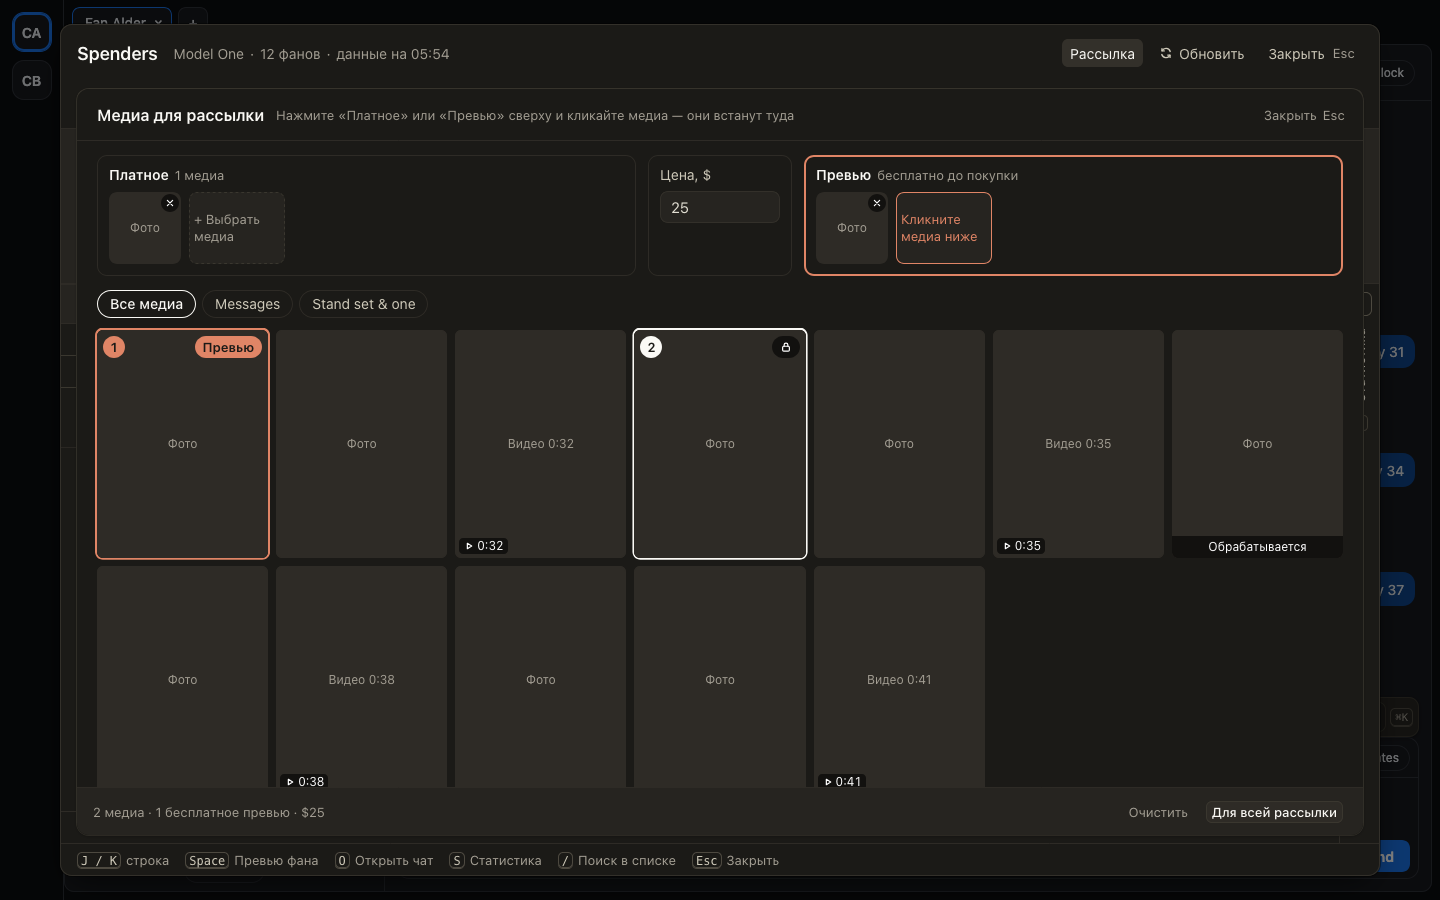
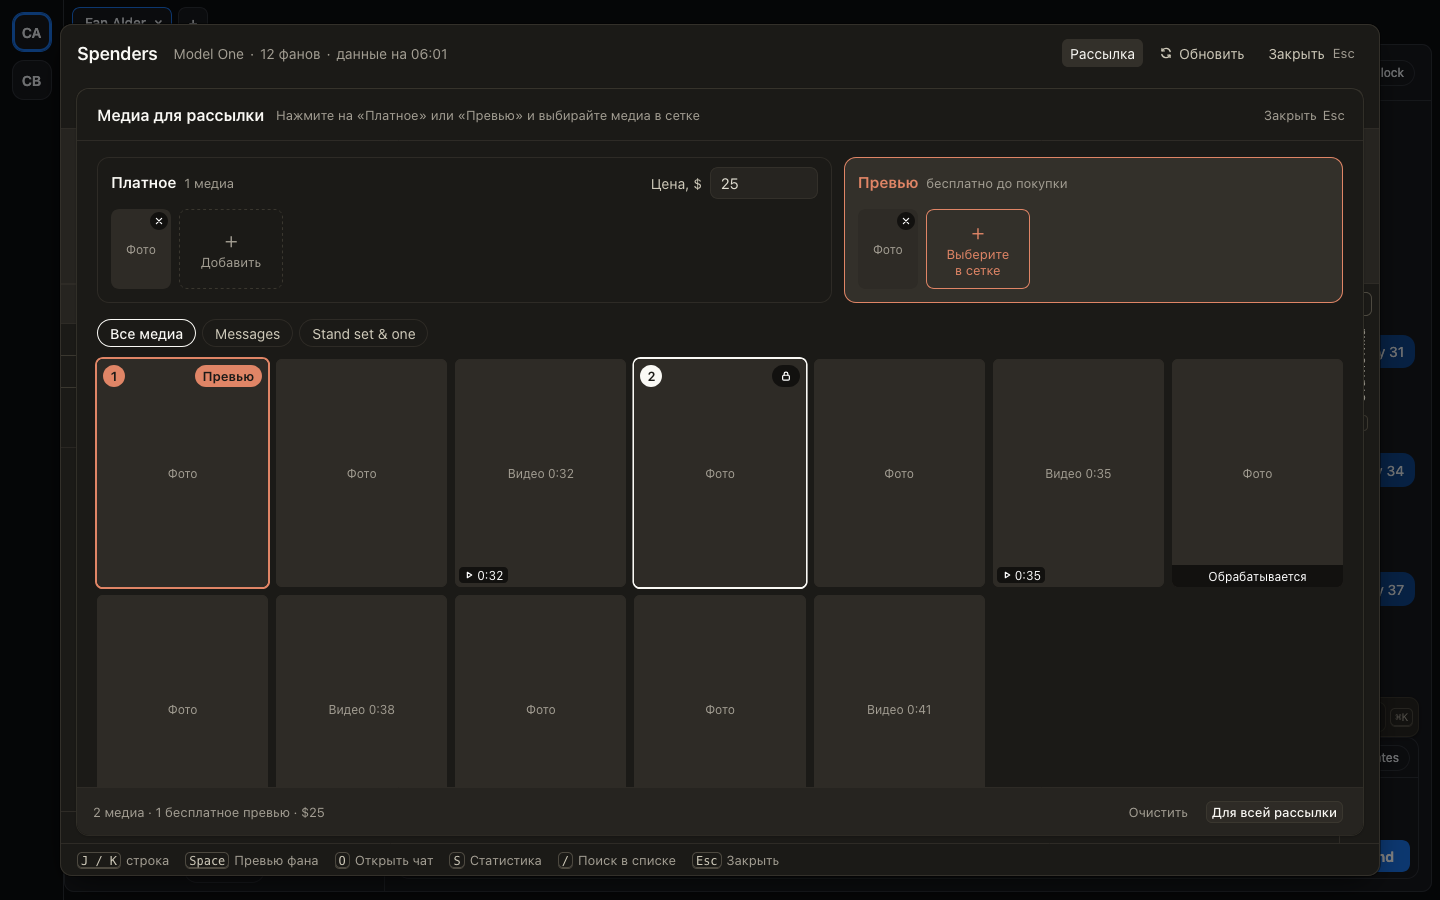
feat(media): two slot cards, the price inside «Платное», a calmer active state

diff --git a/packages/ui/src/spenders/preview/media-panel.tsx b/packages/ui/src/spenders/preview/media-panel.tsx
@@ -147,34 +147,49 @@ function Chosen({ pick, handle }: { readonly pick: MediaChosenVM; readonly handl
 }
 
 /**
- * «Платное» or «Превью» (2026-10-24, the owner): its picks as squares, and the grey square that makes the grid's clicks
- * land here. `next` — the paid media and their price are there: their preview is what comes next.
+ * «Платное» or «Превью» (2026-10-24, the owner): its picks as small tiles, and the tile that makes the grid's clicks land
+ * here — a click anywhere on the card does too. `next` — the paid media and their price are there: their preview is
+ * what comes next. `children` — what its head carries on the right (the price of «Платное»).
  */
-function Slot(props: { readonly slot: Step; readonly picks: readonly MediaChosenVM[]; readonly on: boolean; readonly next: boolean; readonly handle: TargetHandle; readonly onSlot: (slot: Step) => void }): JSX.Element {
-  const { slot, picks, on, next, handle, onSlot } = props;
+function Slot(props: {
+  readonly slot: Step;
+  readonly picks: readonly MediaChosenVM[];
+  readonly on: boolean;
+  readonly next: boolean;
+  readonly handle: TargetHandle;
+  readonly onSlot: (slot: Step) => void;
+  readonly children?: JSX.Element;
+}): JSX.Element {
+  const { slot, picks, on, next, handle, onSlot, children } = props;
   const i18n = useI18n();
   const tip = useTooltip(i18n.t(slot === 'paid' ? 'preview.media.step.paidTooltip' : 'preview.media.step.previewTooltip'));
-  const count = picks.length === 0 ? null : slot === 'paid' ? i18n.plural('preview.media.count', picks.length, { n: picks.length }) : i18n.t('preview.media.slot.free');
+  const meta = slot === 'preview' ? i18n.t('preview.media.slot.free') : picks.length === 0 ? null : i18n.plural('preview.media.count', picks.length, { n: picks.length });
   return (
-    <div class={`cg-pvm__slot${on ? ' is-on' : ''}${next ? ' is-next' : ''}`} data-cg-slot={slot}>
-      <button type="button" class="cg-pvm__slothead" aria-pressed={on} {...tip.props} onClick={() => onSlot(slot)}>
-        <b>{i18n.t(slot === 'paid' ? 'preview.media.step.paid' : 'preview.media.preview')}</b>
-        {count === null ? null : <span>{count}</span>}
-        {tip.description}
-      </button>
+    <div class={`cg-pvm__slot${on ? ' is-on' : ''}${next ? ' is-next' : ''}`} data-cg-slot={slot} onClick={() => onSlot(slot)}>
+      <div class="cg-pvm__slothead">
+        <button type="button" class="cg-pvm__slotname" aria-pressed={on} {...tip.props}>
+          <b>{i18n.t(slot === 'paid' ? 'preview.media.step.paid' : 'preview.media.preview')}</b>
+          {meta === null ? null : <span>{meta}</span>}
+          {tip.description}
+        </button>
+        {children}
+      </div>
       <div class="cg-pvm__sqs">
         {picks.map((pick) => (
           <Chosen key={pick.id} pick={pick} handle={handle} />
         ))}
-        <button type="button" class="cg-pvm__add" aria-pressed={on} onClick={() => onSlot(slot)}>
-          {on ? i18n.t('preview.media.slot.clickBelow') : i18n.t(slot === 'paid' ? 'preview.media.slot.addPaid' : 'preview.media.slot.addPreview')}
+        <button type="button" class="cg-pvm__add" aria-pressed={on}>
+          <span class="cg-pvm__plus" aria-hidden="true">
+            +
+          </span>
+          {i18n.t(on ? 'preview.media.slot.pickInGrid' : 'preview.media.slot.add')}
         </button>
       </div>
     </div>
   );
 }
 
-/** Over the folders: «Платное», «Цена», «Превью» — and, in a fan's preview, the panel's «×». */
+/** Over the folders: «Платное» with its price, «Превью» — and, in a fan's preview, the panel's «×». */
 function Slots({ vm, handle, variant, step, onStep }: MediaPanelProps & { readonly step: Step; readonly onStep: (step: Step) => void }): JSX.Element {
   const i18n = useI18n();
   const dispatch = useDispatch();
@@ -182,18 +197,19 @@ function Slots({ vm, handle, variant, step, onStep }: MediaPanelProps & { readon
   const previews = vm.chosen.filter((pick) => pick.free);
   return (
     <div class="cg-pvm__slots">
-      <Slot slot="paid" picks={paid} on={step === 'paid'} next={false} handle={handle} onSlot={onStep} />
-      <label class="cg-pvm__price">
-        <span>{i18n.t('preview.media.price')}</span>
-        <TextField
-          value={vm.price.text}
-          label={i18n.t('preview.media.price')}
-          placeholder={i18n.t('preview.media.pricePlaceholder')}
-          maxLength={16}
-          {...(vm.price.problem === null ? {} : { class: 'is-bad' })}
-          onValue={(text) => void dispatch({ type: 'SetMediaPrice', targetHandle: handle, text })}
-        />
-      </label>
+      <Slot slot="paid" picks={paid} on={step === 'paid'} next={false} handle={handle} onSlot={onStep}>
+        <label class="cg-pvm__price">
+          <span>{i18n.t('preview.media.price')}</span>
+          <TextField
+            value={vm.price.text}
+            label={i18n.t('preview.media.price')}
+            placeholder={i18n.t('preview.media.pricePlaceholder')}
+            maxLength={16}
+            {...(vm.price.problem === null ? {} : { class: 'is-bad' })}
+            onValue={(text) => void dispatch({ type: 'SetMediaPrice', targetHandle: handle, text })}
+          />
+        </label>
+      </Slot>
       <Slot slot="preview" picks={previews} on={step === 'preview'} next={step === 'paid' && paid.length > 0 && vm.priced && previews.length === 0} handle={handle} onSlot={onStep} />
       {/* The window has its own «Закрыть Esc». */}
       {variant === 'window' ? null : <Button label={i18n.t('preview.media.close')} icon="x" iconOnly size="sm" variant="quiet" class="cg-pvm__close" onClick={() => void dispatch({ type: 'SetMediaOpen', targetHandle: handle, open: false })} />}
@@ -361,41 +377,47 @@ const MEDIA_PANEL_CSS = `
 .cg-pvm__mark.is-preview { background: var(--cg-clay-ink); color: var(--cg-surface); font-weight: 600; }
 .cg-pvm__note { grid-column: 1 / -1; display: flex; align-items: center; gap: 6px; min-height: 28px; font-size: var(--cg-text-sm); color: var(--cg-ink-muted); }
 .cg-pvm__foot { display: flex; flex-wrap: wrap; align-items: center; gap: 4px 8px; padding: 2px 8px 6px 16px; min-height: 32px; }
-/* «Платное», «Цена», «Превью» on top: the slot a click on the grid lands in is outlined — the ink's, the clay's for a preview. */
-.cg-pvm__slots { display: flex; align-items: stretch; gap: 8px; padding: 8px 6px 2px 12px; }
-.cg-pvm__slot, .cg-pvm__price {
-  display: flex; flex-direction: column; gap: 6px; padding: 6px 8px 8px; border-radius: 8px; background: var(--cg-surface);
-  box-shadow: inset 0 0 0 1px var(--cg-rule);
+/*
+ * «Платное» (its price on the right of its head) and «Превью» on top. The card the grid's clicks land in is lifted and
+ * ringed — the ink's, the clay's for a preview: the clay is what goes free, as on the grid's tiles.
+ */
+.cg-pvm__slots { display: flex; align-items: stretch; gap: 8px; padding: 8px 6px 4px 12px; }
+.cg-pvm__slot {
+  flex: 3 1 0; min-width: 0; display: flex; flex-direction: column; gap: 6px; padding: 7px 10px 9px; border-radius: 10px;
+  box-shadow: inset 0 0 0 1px var(--cg-rule); cursor: pointer;
 }
-.cg-pvm__slot { flex: 1; min-width: 0; }
-.cg-pvm__slot.is-on { box-shadow: inset 0 0 0 2px var(--cg-ink-strong); }
-.cg-pvm__slot[data-cg-slot="preview"].is-on { box-shadow: inset 0 0 0 2px var(--cg-clay-ink); }
-.cg-pvm__slothead {
-  display: flex; align-items: baseline; gap: 6px; padding: 0; border: 0; background: none; font: inherit; font-size: var(--cg-text-sm);
-  color: var(--cg-ink-2); text-align: left; white-space: nowrap; cursor: pointer;
+.cg-pvm__slot[data-cg-slot="preview"] { flex-grow: 2; }
+.cg-pvm__slot:hover { box-shadow: inset 0 0 0 1px var(--cg-rule-2); }
+.cg-pvm__slot.is-on { background: var(--cg-seg-on); box-shadow: inset 0 0 0 1px var(--cg-ink-muted); }
+.cg-pvm__slot[data-cg-slot="preview"].is-on { box-shadow: inset 0 0 0 1px var(--cg-clay-ink); }
+.cg-pvm__slothead { display: flex; align-items: center; gap: 8px; min-height: 28px; }
+.cg-pvm__slotname {
+  flex: 1; min-width: 0; display: flex; align-items: baseline; gap: 8px; padding: 0; border: 0; background: none; font: inherit;
+  font-size: var(--cg-text-base); color: var(--cg-ink-muted); text-align: left; white-space: nowrap; cursor: pointer;
 }
-.cg-pvm__slothead b { font-weight: 600; color: var(--cg-ink-strong); }
-.cg-pvm__slothead span { color: var(--cg-ink-muted); font-size: var(--cg-text-xs); }
-.cg-pvm__slot.is-next .cg-pvm__slothead b { color: var(--cg-clay-ink); }
-.cg-pvm__sqs { display: flex; gap: 6px; overflow-x: auto; scrollbar-width: thin; }
-.cg-pvm__sq { position: relative; flex: none; width: 48px; height: 48px; border-radius: 6px; overflow: hidden; background: var(--cg-rule); }
-.cg-pvm__sq .cg-pvm__len { left: 2px; bottom: 2px; }
+.cg-pvm__slotname b { font-weight: 600; color: var(--cg-ink-strong); }
+.cg-pvm__slotname span { overflow: hidden; text-overflow: ellipsis; font-size: var(--cg-text-xs); }
+.cg-pvm__slot[data-cg-slot="preview"] .cg-pvm__slotname b { color: var(--cg-clay-ink); }
+.cg-pvm__sqs { display: flex; align-items: flex-end; gap: 6px; overflow-x: auto; scrollbar-width: thin; }
+.cg-pvm__sq { position: relative; flex: none; width: 42px; height: 56px; border-radius: 6px; overflow: hidden; background: var(--cg-rule); cursor: default; }
+.cg-pvm__sq .cg-pvm__blank { font-size: var(--cg-text-2xs); }
+.cg-pvm__sq .cg-pvm__len { left: 3px; bottom: 3px; height: 14px; padding: 0 3px; line-height: 14px; }
 .cg-pvm__unpick {
-  position: absolute; top: 2px; right: 2px; display: inline-flex; align-items: center; justify-content: center; width: 18px; height: 18px;
+  position: absolute; top: 3px; right: 3px; display: inline-flex; align-items: center; justify-content: center; width: 18px; height: 18px;
   padding: 0; border: 0; border-radius: 9px; background: rgb(0 0 0 / .6); color: #fff; cursor: pointer;
 }
 .cg-pvm__unpick:hover { background: rgb(0 0 0 / .85); }
 .cg-pvm__add {
-  flex: none; width: 88px; height: 48px; padding: 2px 4px; border: 1px dashed var(--cg-rule-2); border-radius: 6px; background: var(--cg-sunk);
-  font: inherit; font-size: var(--cg-text-2xs); line-height: 1.25; color: var(--cg-ink-muted); cursor: pointer;
+  flex: none; display: flex; flex-direction: column; align-items: center; justify-content: center; gap: 2px; width: 84px; height: 56px;
+  padding: 0 6px; border: 1px dashed var(--cg-rule-2); border-radius: 6px; background: none;
+  font: inherit; font-size: var(--cg-text-xs); line-height: 1.2; color: var(--cg-ink-muted); text-align: center; text-wrap: balance; cursor: pointer;
 }
-.cg-pvm__add:hover { color: var(--cg-ink-strong); border-color: var(--cg-ink-muted); }
-.cg-pvm__slot.is-on .cg-pvm__add { border-style: solid; border-color: var(--cg-ink-strong); color: var(--cg-ink-strong); }
-.cg-pvm__slot[data-cg-slot="preview"].is-on .cg-pvm__add { border-color: var(--cg-clay-ink); color: var(--cg-clay-ink); }
-/* What comes next, quieter than the slot the clicks land in: its grey square in the clay's colour. */
-.cg-pvm__slot.is-next .cg-pvm__add { border-color: var(--cg-clay-ink); color: var(--cg-clay-ink); }
-.cg-pvm__price { flex: none; justify-content: space-between; font-size: var(--cg-text-sm); color: var(--cg-ink-2); white-space: nowrap; }
-.cg-pvm__price .cg-field { width: 96px; height: 28px; }
+.cg-pvm__plus { font-size: 18px; font-weight: 300; line-height: 1; }
+.cg-pvm__slot:hover .cg-pvm__add { color: var(--cg-ink-2); }
+.cg-pvm__slot.is-on .cg-pvm__add { border-style: solid; border-color: var(--cg-ink-muted); color: var(--cg-ink-strong); }
+.cg-pvm__slot[data-cg-slot="preview"].is-on .cg-pvm__add, .cg-pvm__slot.is-next .cg-pvm__add { border-color: var(--cg-clay-ink); color: var(--cg-clay-ink); }
+.cg-pvm__price { flex: none; display: inline-flex; align-items: center; gap: 8px; font-size: var(--cg-text-sm); color: var(--cg-ink-2); white-space: nowrap; cursor: default; }
+.cg-pvm__price .cg-field { width: 92px; height: 28px; }
 .cg-pvm__price .cg-field.is-bad { border-color: var(--cg-danger); }
 .cg-pvm__slots .cg-pvm__close { align-self: flex-start; }
 .cg-pvm__sum b { color: var(--cg-ink-strong); font-weight: 600; }
@@ -414,14 +436,16 @@ const MEDIA_PANEL_CSS = `
 .cg-pvm--window .cg-pvm__order { top: 6px; left: 6px; min-width: 22px; height: 22px; border-radius: 11px; line-height: 22px; font-size: var(--cg-text-xs); }
 .cg-pvm--window .cg-pvm__mark { top: 6px; right: 6px; height: 22px; padding: 0 8px; border-radius: 11px; font-size: var(--cg-text-xs); }
 .cg-pvm--window .cg-pvm__foot { gap: 12px; padding: 10px 20px 10px 16px; border-top: 1px solid var(--cg-rule); background: var(--cg-sunk); min-height: 48px; }
-.cg-pvm--window .cg-pvm__slots { gap: 12px; padding: 14px 20px 4px; }
-.cg-pvm--window .cg-pvm__slot, .cg-pvm--window .cg-pvm__price { gap: 8px; padding: 10px 12px 12px; border-radius: 10px; }
-.cg-pvm--window .cg-pvm__slothead { font-size: var(--cg-text-sm2); }
+.cg-pvm--window .cg-pvm__slots { gap: 12px; padding: 16px 20px 6px; }
+.cg-pvm--window .cg-pvm__slot { gap: 10px; padding: 10px 14px 14px; border-radius: 12px; }
+.cg-pvm--window .cg-pvm__slothead { min-height: 32px; }
+.cg-pvm--window .cg-pvm__slotname { font-size: var(--cg-text-md); }
 .cg-pvm--window .cg-pvm__sqs { gap: 8px; }
-.cg-pvm--window .cg-pvm__sq { width: 72px; height: 72px; border-radius: 8px; }
-.cg-pvm--window .cg-pvm__add { width: 96px; height: 72px; border-radius: 8px; font-size: var(--cg-text-xs); }
-.cg-pvm--window .cg-pvm__price { font-size: var(--cg-text-sm2); justify-content: flex-start; }
-.cg-pvm--window .cg-pvm__price .cg-field { width: 120px; height: 32px; }
+.cg-pvm--window .cg-pvm__sq { width: 60px; height: 80px; border-radius: 8px; }
+.cg-pvm--window .cg-pvm__add { width: 104px; height: 80px; border-radius: 8px; font-size: var(--cg-text-sm); gap: 4px; }
+.cg-pvm--window .cg-pvm__plus { font-size: 22px; }
+.cg-pvm--window .cg-pvm__price { font-size: var(--cg-text-sm2); }
+.cg-pvm--window .cg-pvm__price .cg-field { width: 108px; height: 32px; }
 .cg-pvm--window .cg-pvm__foot .cg-pvm__or { margin-left: auto; }
 /* In the window's column a 100% basis is the window's whole height: the notes would push the grid out of sight. */
 .cg-pvm--window .cg-pvm__notes { flex: none; padding: 0 20px 10px; background: var(--cg-sunk); }

diff --git a/packages/core/src/domain/i18n/ru.ts b/packages/core/src/domain/i18n/ru.ts
@@ -600,9 +600,8 @@ export const RU: I18nCatalog<'ru'> = {
   'preview.media.step.paid': 'Платное',
   'preview.media.step.paidTooltip': 'Клик по медиа — за ценой: фан откроет его после покупки',
   'preview.media.step.previewTooltip': 'Клик по медиа — бесплатное превью: фан увидит его до покупки, первым в сообщении',
-  'preview.media.slot.addPaid': '+ Выбрать медиа',
-  'preview.media.slot.addPreview': '+ Выбрать превью',
-  'preview.media.slot.clickBelow': 'Кликните медиа ниже',
+  'preview.media.slot.add': 'Добавить',
+  'preview.media.slot.pickInGrid': 'Выберите в сетке',
   'preview.media.slot.free': 'бесплатно до покупки',
   'preview.media.unpick': 'Убрать',
   'preview.media.price': 'Цена, $',
@@ -737,7 +736,7 @@ export const RU: I18nCatalog<'ru'> = {
   'outreach.step.send': '«Отправить» в строке каждого фана',
   'outreach.media.change': 'Изменить',
   'outreach.media.window': 'Медиа для рассылки',
-  'outreach.media.windowHint': 'Нажмите «Платное» или «Превью» сверху и кликайте медиа — они встанут туда',
+  'outreach.media.windowHint': 'Нажмите на «Платное» или «Превью» и выбирайте медиа в сетке',
   'outreach.media.pick': 'Выбрать медиа',
   'outreach.sendAnyway': 'Отправить всё равно',
   'outreach.sendAnywayTooltip': 'Не проверить, писал ли фан новое после этой версии: она сделана с закрытым чатом. Переписку видно в превью фана',

diff --git a/packages/core/src/domain/i18n/en.ts b/packages/core/src/domain/i18n/en.ts
@@ -563,9 +563,8 @@ export const EN: I18nCatalog<'en'> = {
   'preview.media.step.paid': 'Paid',
   'preview.media.step.paidTooltip': 'A click on a medium locks it behind the price: the fan opens it after buying',
   'preview.media.step.previewTooltip': 'A click on a medium makes it a free preview: the fan sees it before buying, first in the message',
-  'preview.media.slot.addPaid': '+ Pick media',
-  'preview.media.slot.addPreview': '+ Pick a preview',
-  'preview.media.slot.clickBelow': 'Click media below',
+  'preview.media.slot.add': 'Add',
+  'preview.media.slot.pickInGrid': 'Pick in the grid',
   'preview.media.slot.free': 'free before buying',
   'preview.media.unpick': 'Remove',
   'preview.media.price': 'Price, $',
@@ -700,7 +699,7 @@ export const EN: I18nCatalog<'en'> = {
   'outreach.step.send': '«Send» in each fan’s row',
   'outreach.media.change': 'Change',
   'outreach.media.window': 'Media for the outreach',
-  'outreach.media.windowHint': 'Press «Paid» or «Preview» on top and click media — they land there',
+  'outreach.media.windowHint': 'Press «Paid» or «Preview», then pick media in the grid',
   'outreach.media.pick': 'Pick media',
   'outreach.sendAnyway': 'Send anyway',
   'outreach.sendAnywayTooltip': 'Could not check whether the fan wrote anything new since this version: it was made with the chat closed. The chat is in the fan’s preview',

diff --git a/packages/contracts/src/i18n/keys.ts b/packages/contracts/src/i18n/keys.ts
@@ -165,7 +165,7 @@ export const UI_TEXT_KEYS = [
   'preview.media.fan.free', 'preview.media.fanTip.paid', 'preview.media.fanTip.unpaid', 'preview.media.fanTip.free', 'preview.media.type.photo',
   'preview.media.type.video', 'preview.media.type.anim', 'preview.media.type.audio', 'preview.media.pickedAria', 'preview.media.preview', 'preview.media.locked',
   'preview.media.step.paid', 'preview.media.step.paidTooltip', 'preview.media.step.previewTooltip',
-  'preview.media.slot.addPaid', 'preview.media.slot.addPreview', 'preview.media.slot.clickBelow', 'preview.media.slot.free', 'preview.media.unpick', 'preview.media.price', 'preview.media.pricePlaceholder', 'preview.media.price.format',
+  'preview.media.slot.add', 'preview.media.slot.pickInGrid', 'preview.media.slot.free', 'preview.media.unpick', 'preview.media.price', 'preview.media.pricePlaceholder', 'preview.media.price.format',
   'preview.media.price.decimals', 'preview.media.price.min', 'preview.media.price.max', 'preview.media.allFree', 'preview.media.blocked.price',
   'preview.media.blocked.allFree', 'preview.media.blocked.tagsLoading', 'preview.media.tagsLoading',
   'preview.media.tagsFailed', 'preview.media.retry', 'preview.media.clear', 'preview.media.hint', 'preview.media.attachedHint', 'preview.media.summaryFree',

diff --git a/packages/testing/e2e/see/scenarios/outreach-of.see.ts b/packages/testing/e2e/see/scenarios/outreach-of.see.ts
@@ -34,7 +34,7 @@ scenario(
     await s.press(/^/, 'modal', '.cg-or-mw .cg-pvm__price input');
     for (const key of Array.from('25')) await s.browser.keys(key);
     await s.shot('outreach-of-paid');
-    await s.press(/Выбрать превью/, 'modal', '.cg-or-mw [data-cg-slot="preview"] .cg-pvm__add');
+    await s.press(/Добавить/, 'modal', '.cg-or-mw [data-cg-slot="preview"] .cg-pvm__add');
     await s.press(/^/, 'modal', '.cg-or-mw [data-cg-media="660000001"] .cg-pvm__pick');
     await s.shot('outreach-of-window');
     await s.press(/^Для всей рассылки/, 'modal', '.cg-pvm__or');

diff --git a/changes/media-slots.md b/changes/media-slots.md
@@ -6,11 +6,11 @@ sites: chatspace
 # Медиа из волта: плашки «Платное» и «Превью» сверху
 
 В окне «Медиа для рассылки» и в панели «Медиа» превью фана выбранное теперь видно сверху, в двух плашках:
-слева «Платное», справа «Превью», между ними цена. Нажмите на плашку, и следующие клики по медиа в сетке
-положат медиа в неё. Медиа в плашке показано миниатюрой, крестик на ней убирает его. Папки волта и сетка
-остались под плашками. После платного и цены серый квадратик «+ Выбрать превью» подсвечивается как следующий шаг.
+слева «Платное» с ценой, справа «Превью». Нажмите на плашку, и следующие клики по медиа в сетке положат медиа
+в неё. Медиа в плашке показано миниатюрой, крестик на ней убирает его. Папки волта и сетка остались под
+плашками. После платного и цены «Добавить» в «Превью» подсвечивается как следующий шаг.
 
-![Окно «Медиа для рассылки»: плашки «Платное» и «Превью» с ценой между ними, ниже папки и сетка](media-slots.png)
+![Окно «Медиа для рассылки»: плашки «Платное» с ценой и «Превью», ниже папки и сетка](media-slots.png)
 
 ## Как это устроено
 
